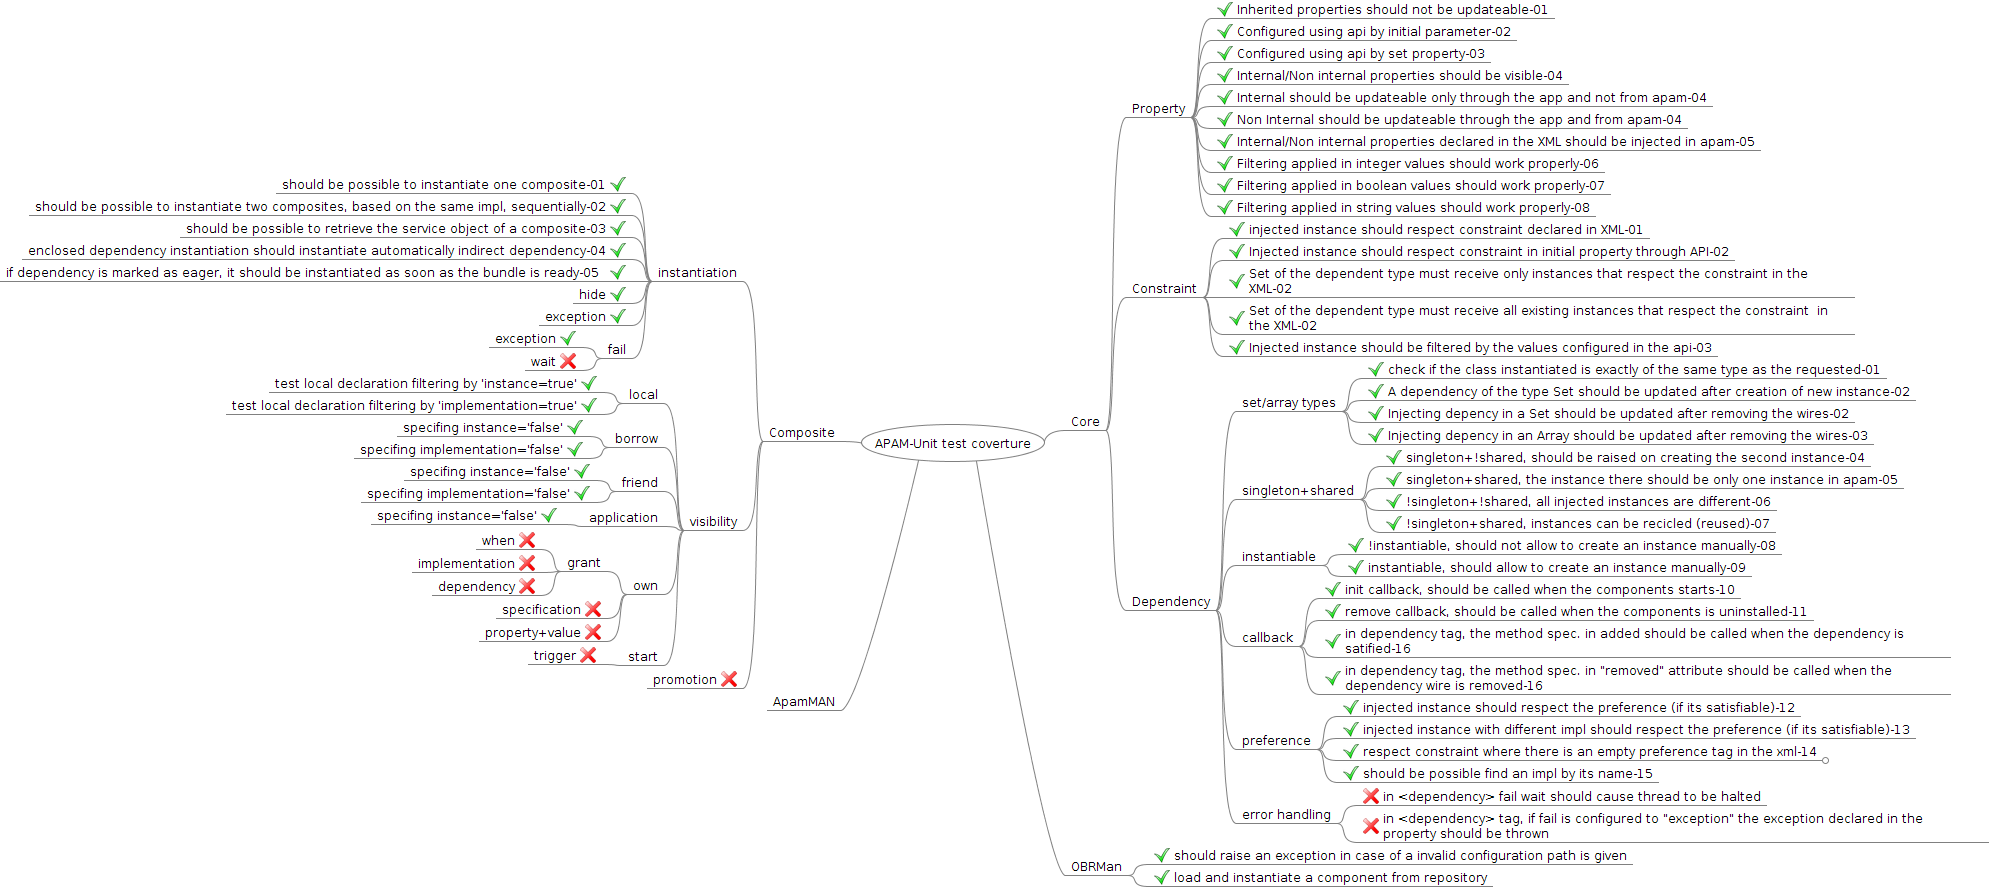
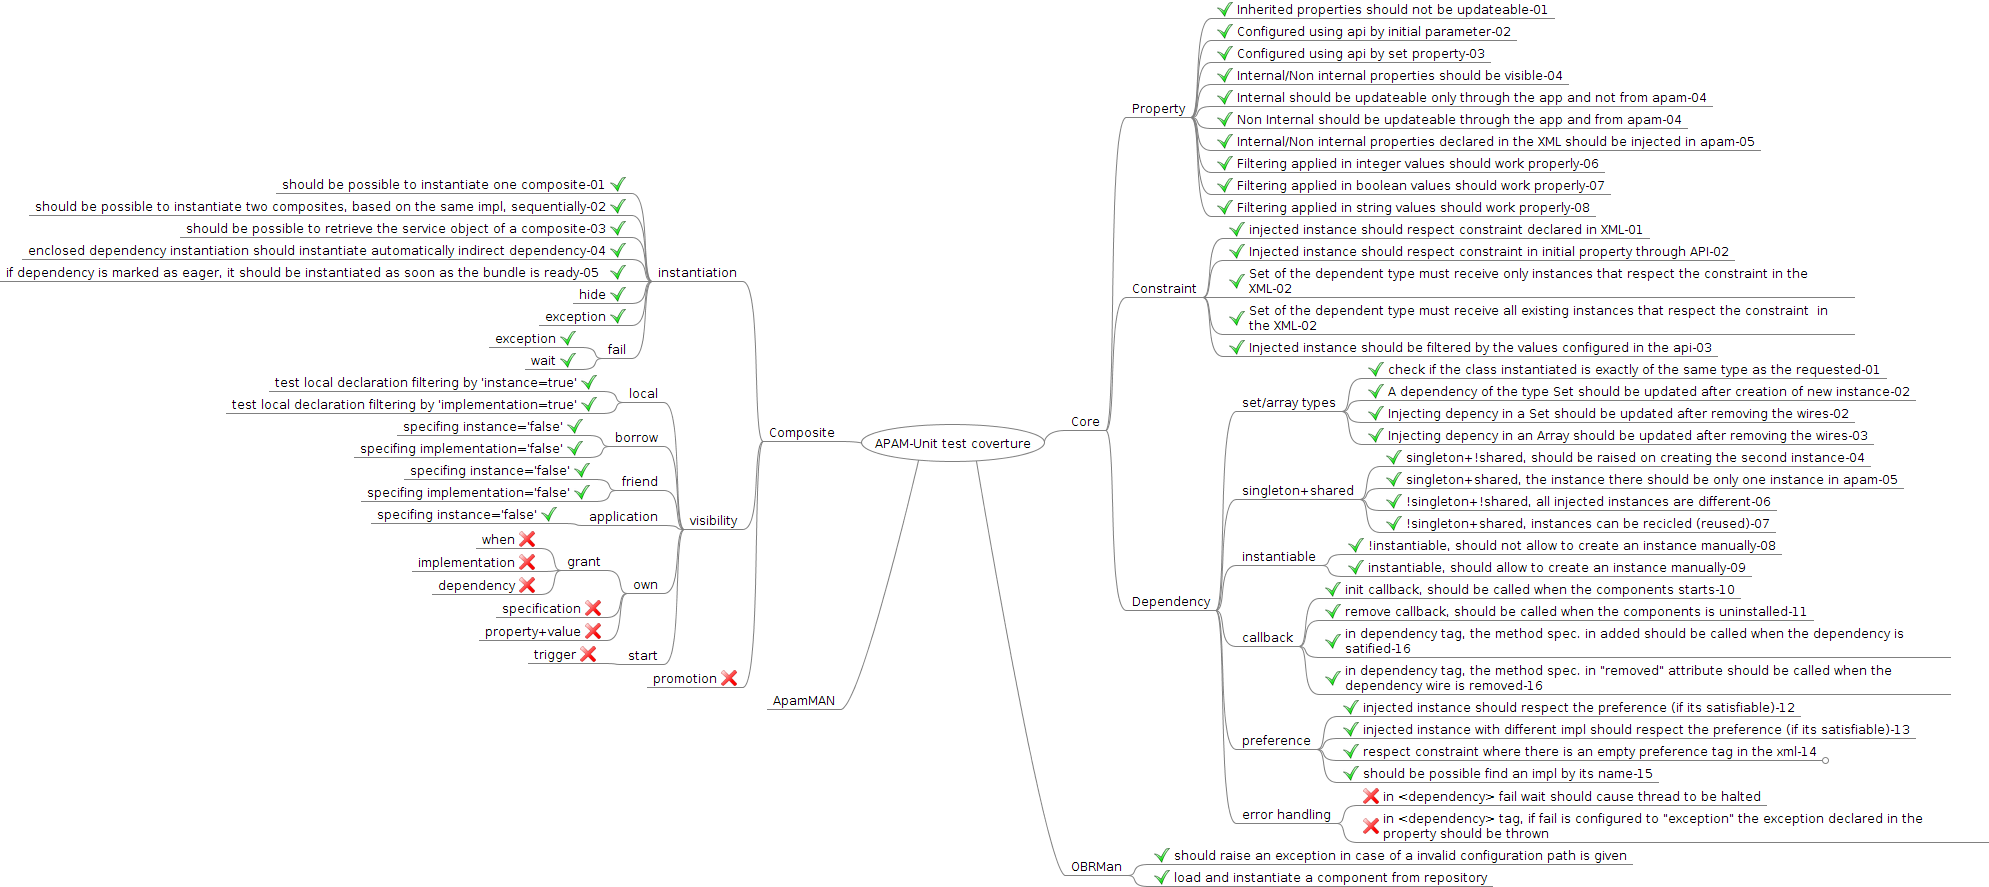
testing fail='wait' for composite dependency

Changed region(s): [[0.1247, 0.3957, 0.3741, 0.7914], [0.3117, 0.6392, 0.3429, 0.6697]]

diff --git a/tests/services/pax-test/src/test/java/fr/imag/adele/apam/test/testcases/CompositeTest.java b/tests/services/pax-test/src/test/java/fr/imag/adele/apam/test/testcases/CompositeTest.java
@@ -26,6 +26,7 @@ import fr.imag.adele.apam.pax.test.impl.S3GroupBImpl;
 import fr.imag.adele.apam.pax.test.impl.S3GroupCImpl;
 import fr.imag.adele.apam.pax.test.impl.S3GroupDImpl;
 import fr.imag.adele.apam.pax.test.impl.device.GenericSwitch;
+import fr.imag.adele.apam.test.testcases.TestTemp.ThreadWrapper;
 import fr.imag.adele.apam.tests.helpers.ExtensionAbstract;
 
 @RunWith(JUnit4TestRunner.class)
@@ -434,10 +435,10 @@ public class CompositeTest extends ExtensionAbstract {
 	public void CompositeContentMngtDependencyFailException() {
 		
 		CompositeType ctroot = (CompositeType) CST.apamResolver.findImplByName(
-				null, "composite-a-exception");
+				null, "composite-a-fail-exception");
 		
 		CompositeType cta = (CompositeType) CST.apamResolver.findImplByName(
-				null, "composite-a-exception");
+				null, "composite-a-fail-exception");
 		
 		Composite composite_root = (Composite) ctroot.createInstance(null, null);
 		
@@ -472,6 +473,45 @@ public class CompositeTest extends ExtensionAbstract {
 		Assert.assertTrue(messageException,exception);
 		Assert.assertTrue(messageExceptionType,exceptionType);
 
+	}	
+	
+	@Test
+	public void CompositeContentMngtDependencyFailWait() {
+
+		CompositeType cta = (CompositeType) CST.apamResolver.findImplByName(
+				null, "composite-a-fail-wait");
+
+		Composite composite_a = (Composite) cta.createInstance(null, null);
+
+		Instance instanceApp1 = composite_a.getMainInst();
+
+		S3GroupAImpl ga1 = (S3GroupAImpl) instanceApp1.getServiceObject();
+
+		ThreadWrapper wrapper=new ThreadWrapper(ga1);
+		wrapper.setDaemon(true);
+		wrapper.start();
+		
+		apam.waitForIt(3000);
+		
+		String message="In case of composite dependency been maked as fail='wait', the thread should be blocked until the dependency is satisfied. During this test the thread did not block.";
+		
+		Assert.assertTrue(message,wrapper.isAlive());
+	}
+	
+	//Require by the test CompositeContentMngtDependencyFailWait
+	class ThreadWrapper extends Thread {
+
+		final S3GroupAImpl group;
+		
+		public ThreadWrapper(S3GroupAImpl group){
+			this.group=group;
+		}
+		
+		@Override
+		public void run() {
+			System.out.println("Element injected:"+group.getElement());
+		}
+		
 	}	
 	
 	@Test

diff --git a/documentations/technical/test-coverture/APAM-UnitTest-Coverture-OnFreeMindApp.mm b/documentations/technical/test-coverture/APAM-UnitTest-Coverture-OnFreeMindApp.mm
@@ -156,8 +156,8 @@
 <node CREATED="1353947943098" ID="ID_1719612626" MODIFIED="1353948946022" TEXT="exception">
 <icon BUILTIN="button_ok"/>
 </node>
-<node CREATED="1353947946554" ID="ID_360439714" MODIFIED="1353947958070" TEXT="wait">
-<icon BUILTIN="button_cancel"/>
+<node CREATED="1353947946554" ID="ID_360439714" MODIFIED="1354029050396" TEXT="wait">
+<icon BUILTIN="button_ok"/>
 </node>
 </node>
 </node>
@@ -206,7 +206,7 @@
 <node CREATED="1353942131367" ID="ID_1134763459" MODIFIED="1353942145773" TEXT="specification">
 <icon BUILTIN="button_cancel"/>
 </node>
-<node CREATED="1353942135769" ID="ID_891832927" MODIFIED="1353942148492" TEXT="property+value">
+<node CREATED="1353942135769" ID="ID_891832927" MODIFIED="1354027676541" TEXT="property+value">
 <icon BUILTIN="button_cancel"/>
 </node>
 </node>
